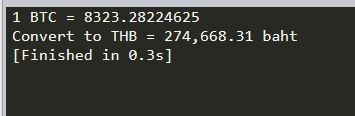
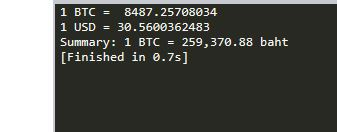
changed photo

Changed region(s): [[0.0, 0.0, 1.0, 1.0]]

diff --git a/README.md b/README.md
@@ -1,3 +1,3 @@
-# BTC_Price
+# BTC Price and convert from USD to THB
 Test bitcoin api <br>
 ![homepage](https://github.com/atthana/BTC_Price/blob/master/ex.JPG)
